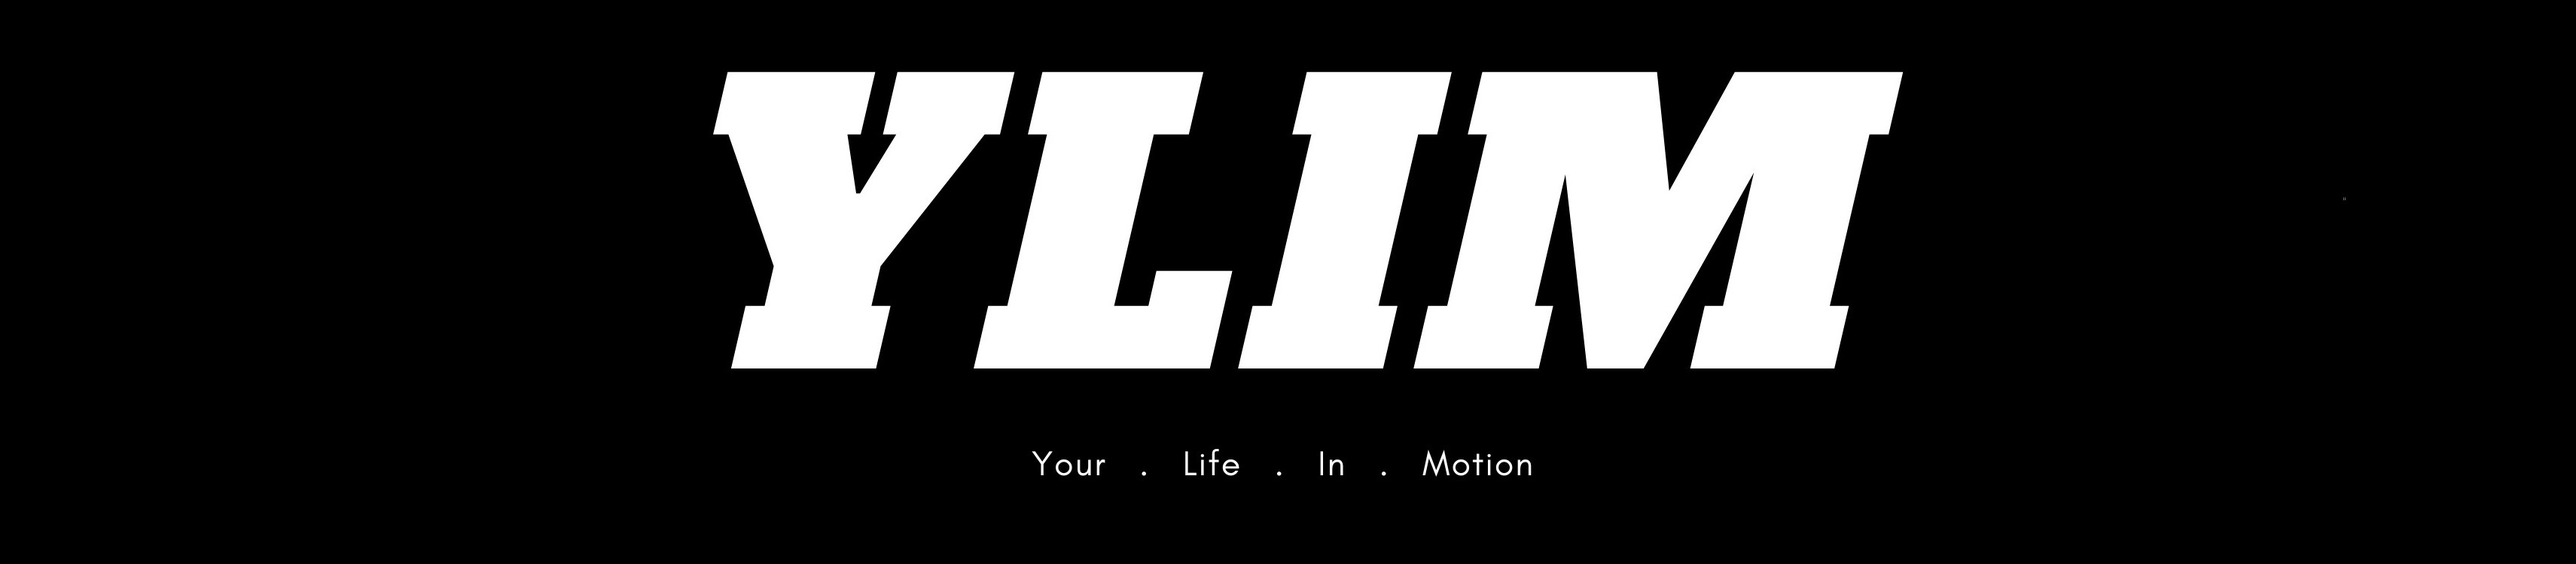
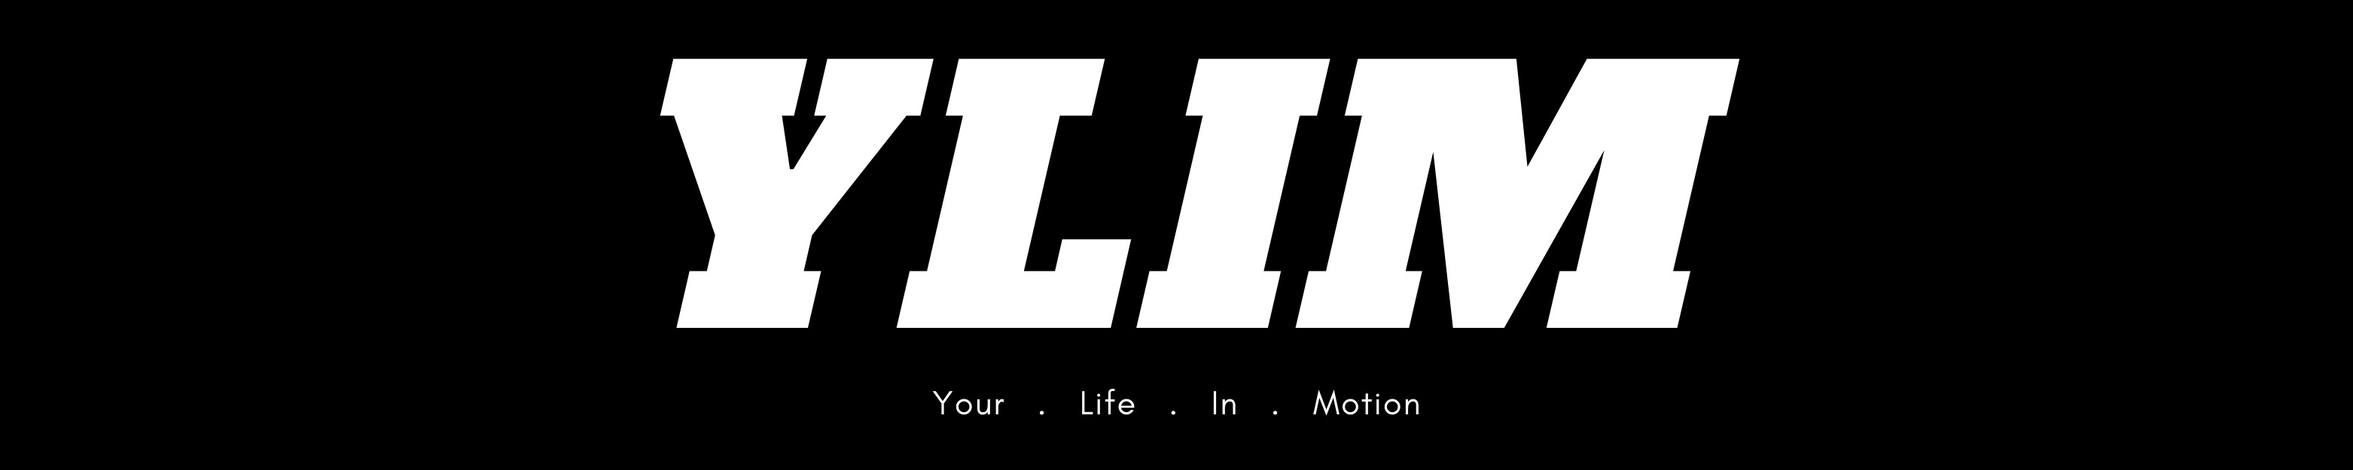
1603

diff --git a/Index.html b/Index.html
@@ -34,7 +34,7 @@
                 <td>&nbsp;&nbsp;&nbsp;&nbsp;&nbsp;&nbsp;&nbsp;&nbsp;&nbsp;&nbsp;&nbsp;</td>
                 <td>
                     <div align="center">
-                        <img src="IMG/IndexMasc2.jpg" width="425" height="300">
+                        <img src="IMG/IndexMasc2.jpg" width="450" height="300">
                     </div>
                 </td>
                 <td>&nbsp;&nbsp;&nbsp;&nbsp;&nbsp;&nbsp;&nbsp;&nbsp;&nbsp;&nbsp;&nbsp;</td>
@@ -127,7 +127,7 @@
                         </div>
                     </td>
                     <td>&nbsp;&nbsp;&nbsp;&nbsp;</td>
-                    <td><img src="IMG/LogoWhite.jpg" width="400" height="250"></td>
+                    <td><img src="IMG/LogoWhite.jpeg" width="400" height="400"></td>
                 </tr>
             </table>
         </footer>
